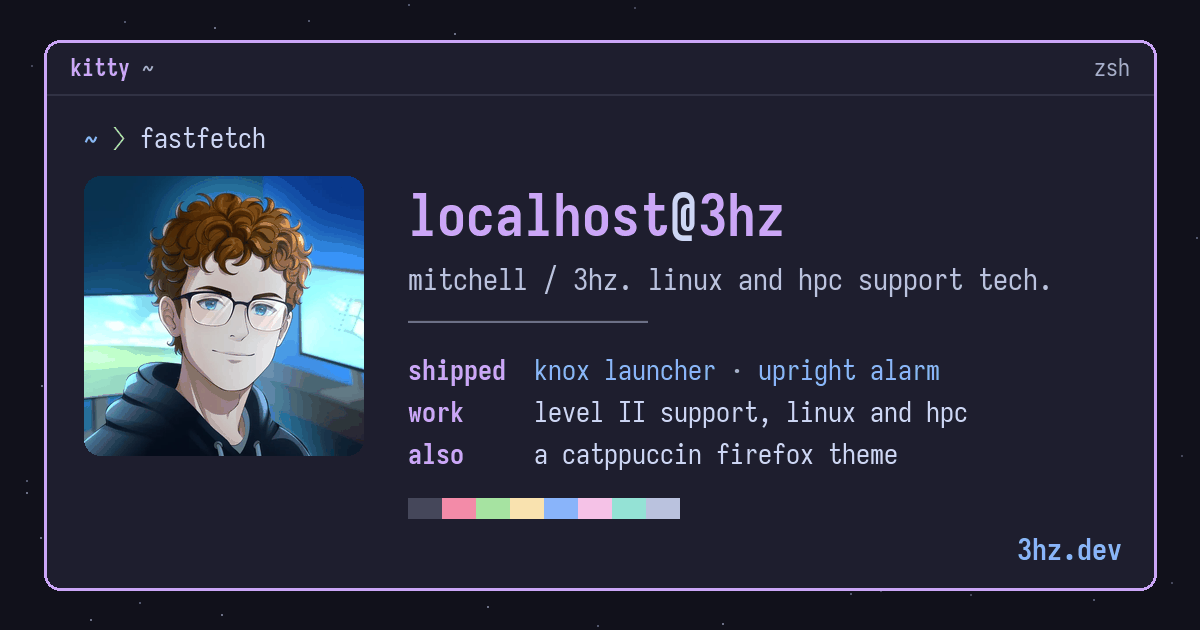
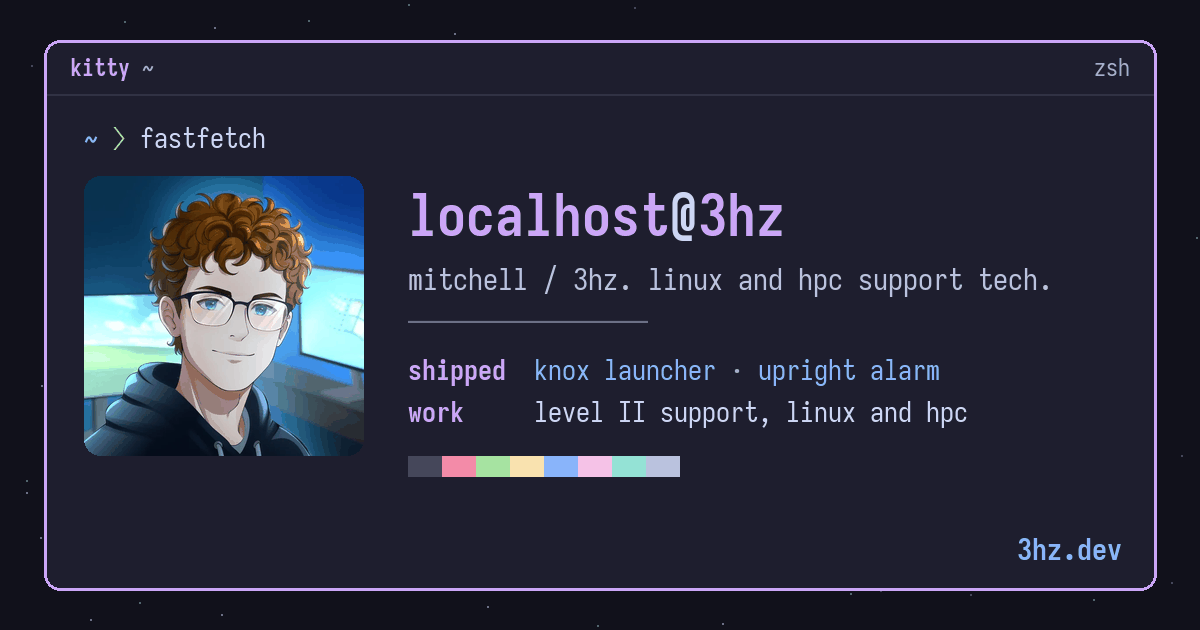
preview card: just knox and upright

Changed region(s): [[0.3392, 0.6937, 0.74, 0.8444]]

diff --git a/index.html b/index.html
@@ -4,13 +4,13 @@
   <meta charset="utf-8">
   <meta name="viewport" content="width=device-width, initial-scale=1">
   <title>mitchell / 3hz · linux tools &amp; open source · 3hz.dev</title>
-  <meta name="description" content="mitchell / 3hz. linux and hpc support tech. i make knox launcher (open source, project zomboid with friends), upright alarm for iphone, and a catppuccin firefox theme.">
+  <meta name="description" content="mitchell / 3hz. linux and hpc support tech. i make knox launcher (open source, project zomboid with friends) and upright alarm for iphone.">
   <link rel="canonical" href="https://3hz.dev/">
   <meta name="theme-color" content="#1e1e2e">
   <meta property="og:type" content="website">
   <meta property="og:site_name" content="3hz.dev">
   <meta property="og:title" content="mitchell / 3hz · linux tools &amp; open source · 3hz.dev">
-  <meta property="og:description" content="linux and hpc support tech. i make knox launcher (open source) and upright alarm (ios), plus a catppuccin firefox theme.">
+  <meta property="og:description" content="linux and hpc support tech. i make knox launcher (open source) and upright alarm (ios).">
   <meta property="og:image" content="https://3hz.dev/assets/img/og.png">
   <meta property="og:image:width" content="1200">
   <meta property="og:image:height" content="630">
@@ -18,7 +18,7 @@
   <meta property="og:url" content="https://3hz.dev/">
   <meta name="twitter:card" content="summary_large_image">
   <meta name="twitter:title" content="mitchell / 3hz · linux tools &amp; open source · 3hz.dev">
-  <meta name="twitter:description" content="linux and hpc support tech. i make knox launcher (open source) and upright alarm (ios), plus a catppuccin firefox theme.">
+  <meta name="twitter:description" content="linux and hpc support tech. i make knox launcher (open source) and upright alarm (ios).">
   <meta name="twitter:image" content="https://3hz.dev/assets/img/og.png">
   <meta name="twitter:image:alt" content="3hz.dev as a terminal window: localhost@3hz, mitchell / 3hz, linux and hpc support tech. shipped: knox launcher and upright alarm.">
   <link rel="icon" href="favicon.svg" type="image/svg+xml">
